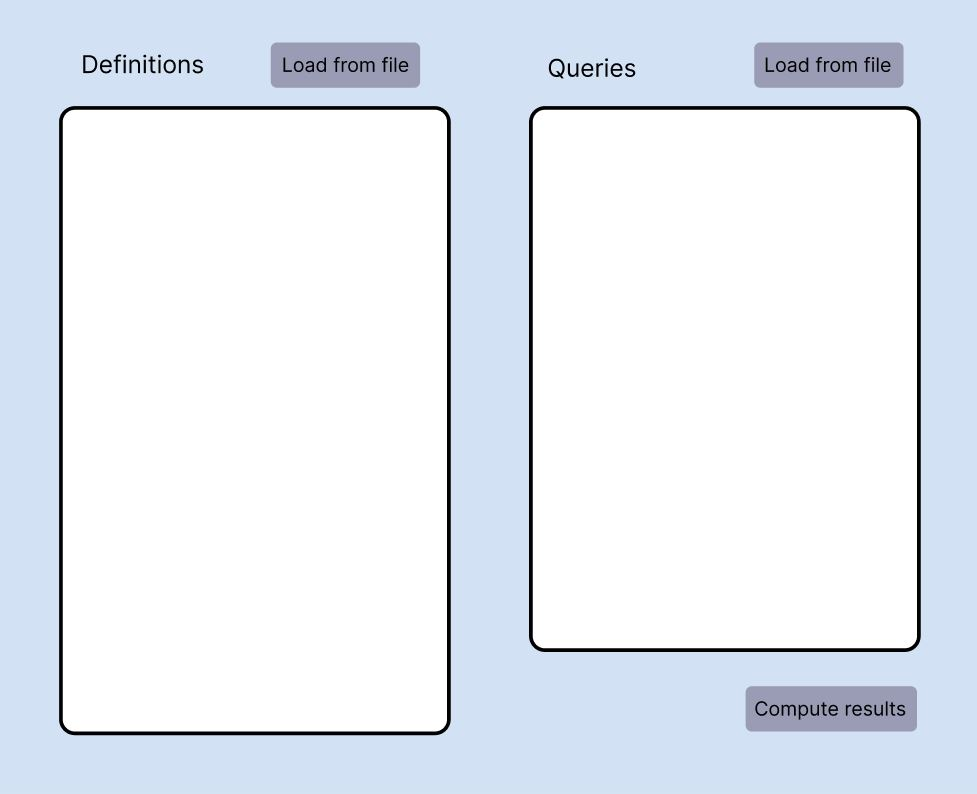
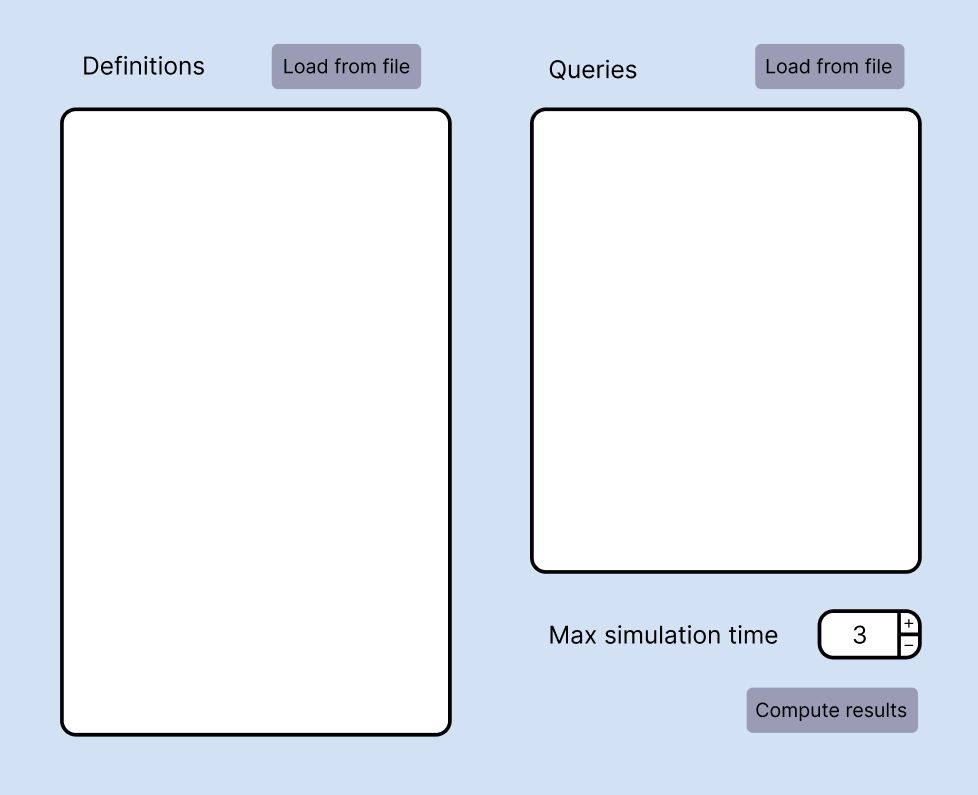
Max simulation time input in gui

diff --git a/docs/main.tex b/docs/main.tex
@@ -363,7 +363,7 @@ Na początku Ewa jest zmęczona, nie ma książki, jest w domu i biblioteka jest
 
 \section{Interfejs użytkownika}
 
-Rysunek \ref{fig:main_view} zawiera wstępny wygląd aplikacji. Lewy panej zawiera pole tekstowe do wpisania definicji, a prawy zawiera pole do wpisania kwerend. Zarówno definicje jak i kwerendy możliwe są do wczytania z pliku po naciśnięciu odpowiedniego guzika. W prawym dolnym rogu aplikacji znajduje guzik, który uruchamia symulację.
+Rysunek \ref{fig:main_view} zawiera wstępny wygląd aplikacji. Lewy panej zawiera pole tekstowe do wpisania definicji, a prawy zawiera pole do wpisania kwerend. Zarówno definicje jak i kwerendy możliwe są do wczytania z pliku po naciśnięciu odpowiedniego guzika. W prawym dolnym rogu aplikacji znajduje się pole do wyboru maksymalnego czasu symulacji oraz guzik, który uruchamia symulację.
 
 Rysunek \ref{fig:success} przedstawia dialog, który będzie wyświetlany po pomyślnym wynonaniu symulacji. Będą w nim przedstawione wyniki kwerend.
 
